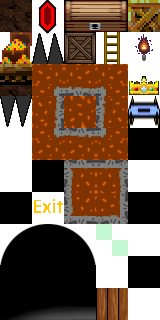
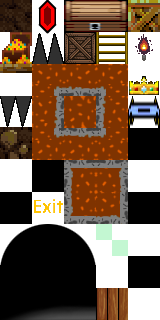
Replaced assets && death collision of spikes

diff --git a/app/SceneData.py b/app/SceneData.py
@@ -26,10 +26,10 @@ class SceneData(SceneDataTMX):
         self.itemDatabase = ItemDatabase()
         self.backpack = Backpack(5, 5)
 
-        # self.backpack.addItem(self.itemDatabase.itemList[1])
-        # self.backpack.addItem(self.itemDatabase.itemList[1])
-        # self.backpack.addItem(self.itemDatabase.itemList[2])
-        # self.backpack.addItem(self.itemDatabase.itemList[2])
+        self.backpack.addItem(self.itemDatabase.itemList[1])
+        self.backpack.addItem(self.itemDatabase.itemList[1])
+        self.backpack.addItem(self.itemDatabase.itemList[2])
+        self.backpack.addItem(self.itemDatabase.itemList[2])
         self.backpack.items[1][1] = self.itemDatabase.itemList[0]
 
 
